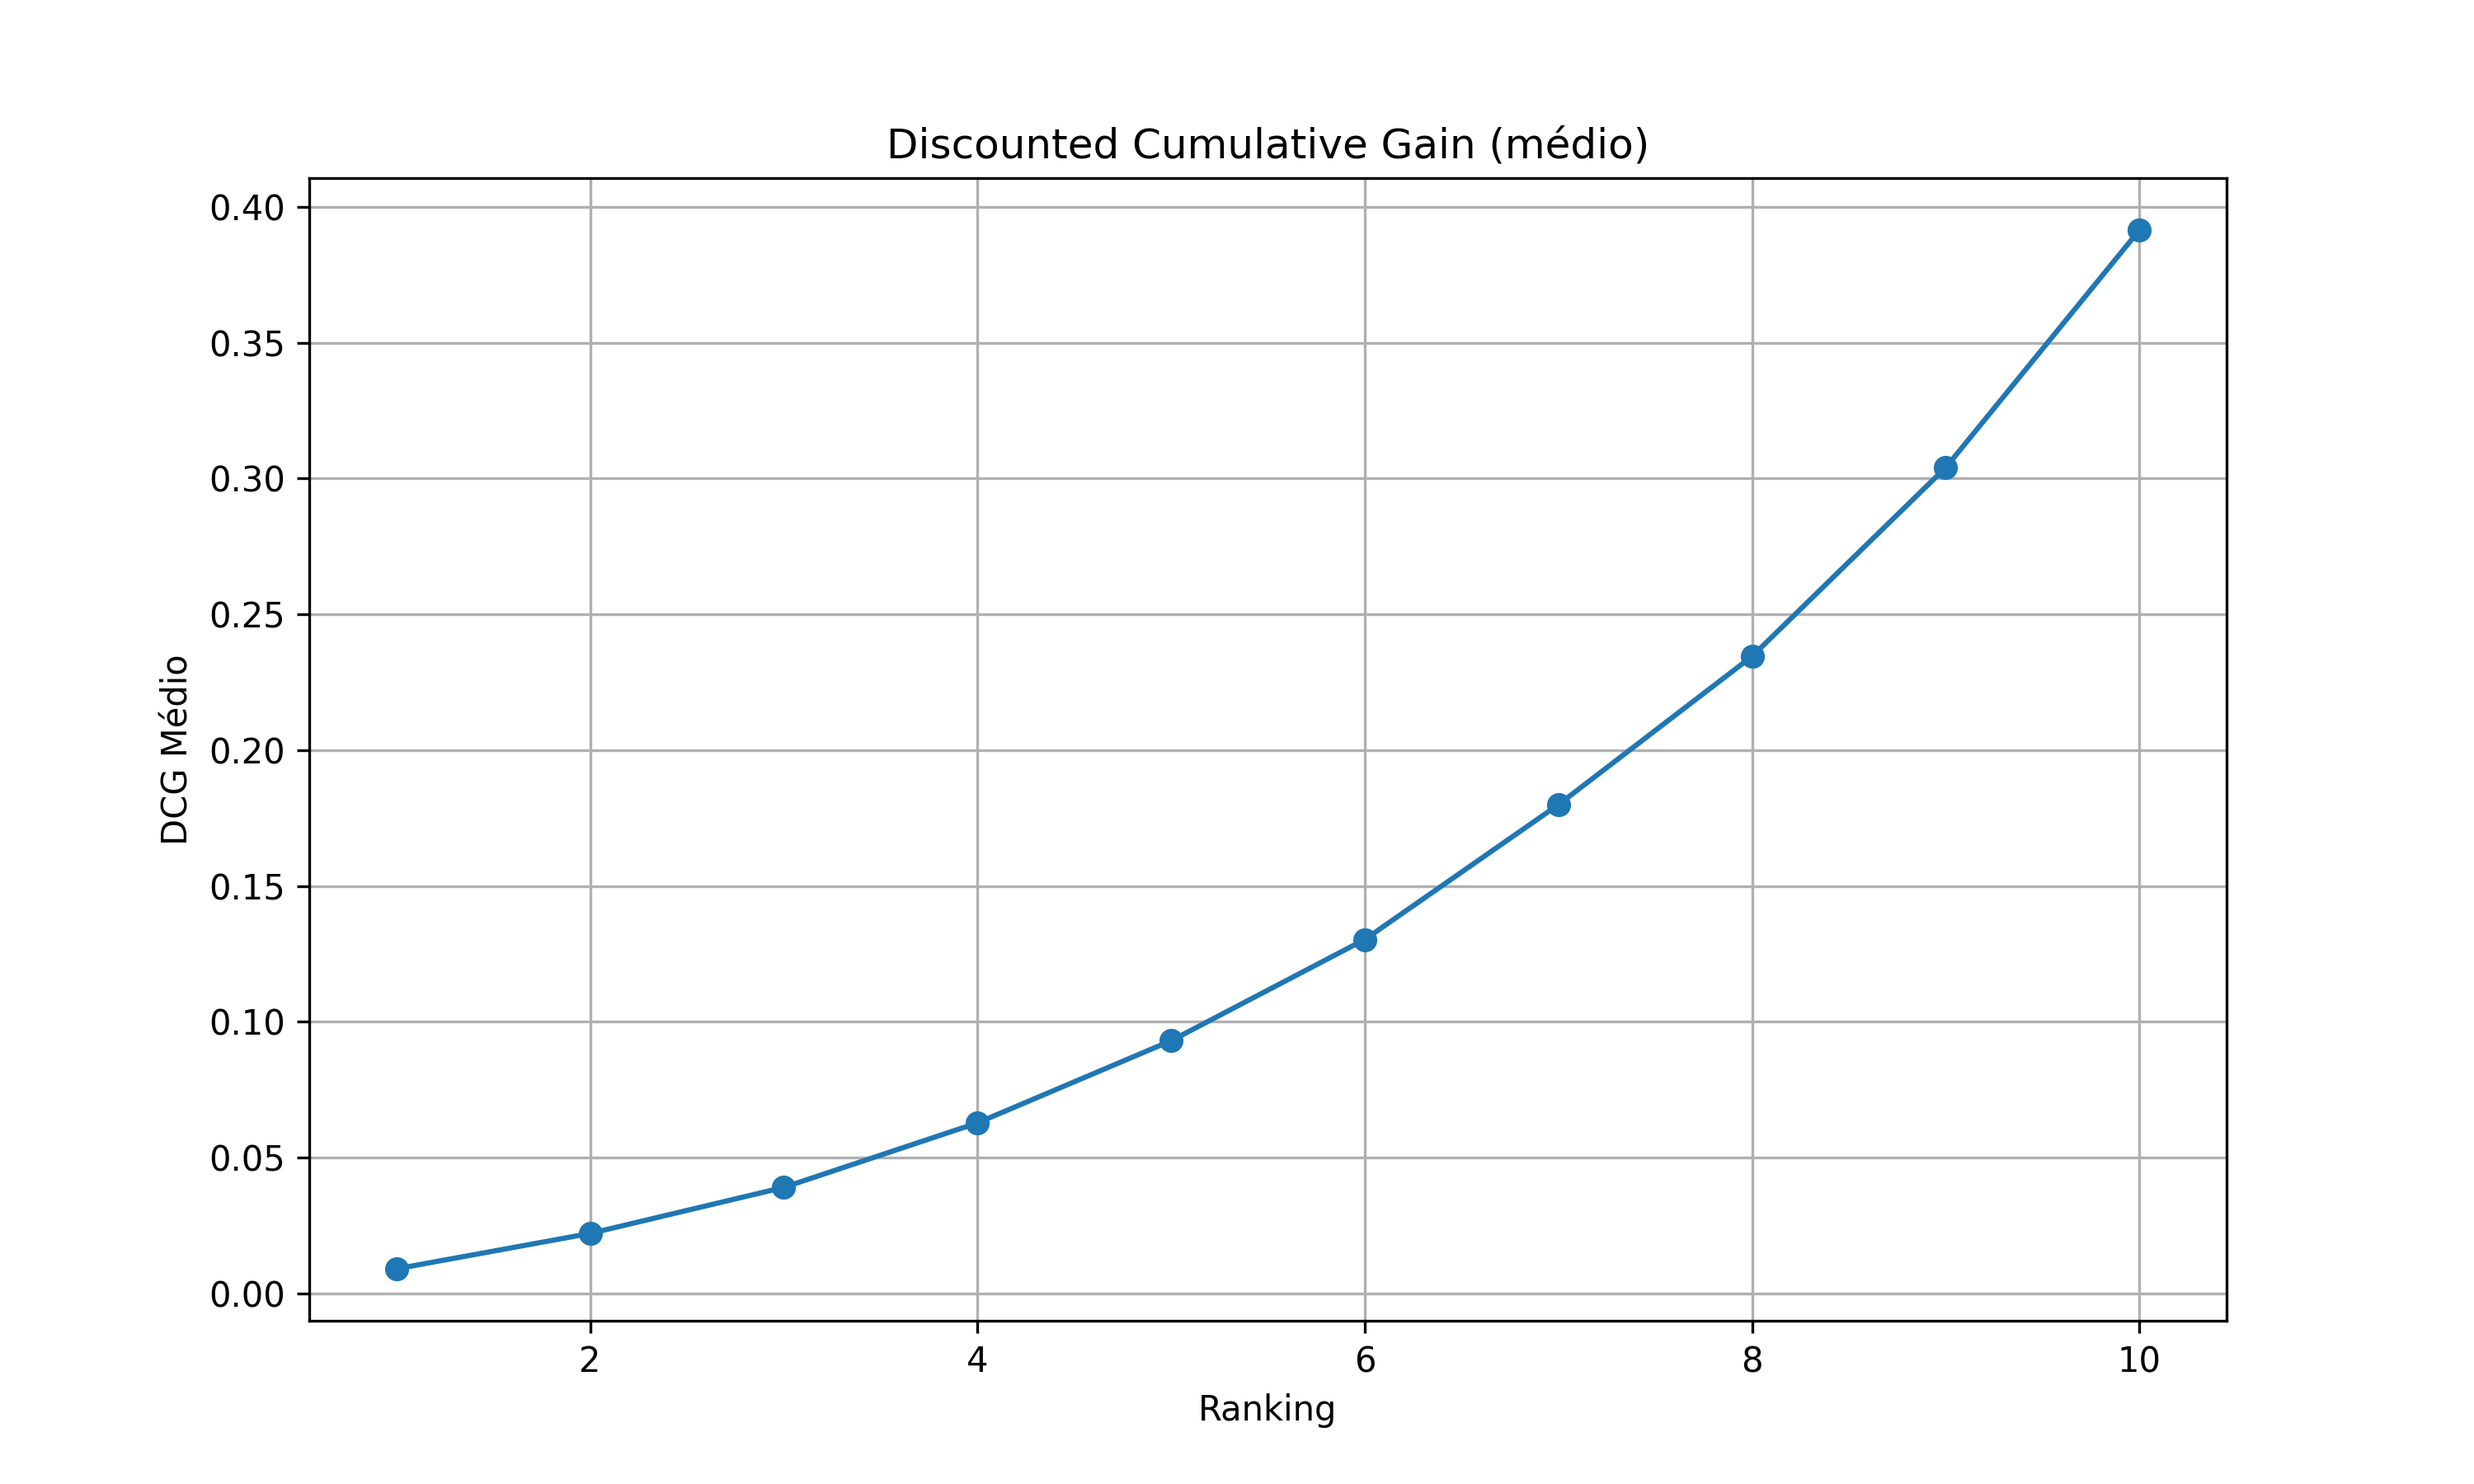
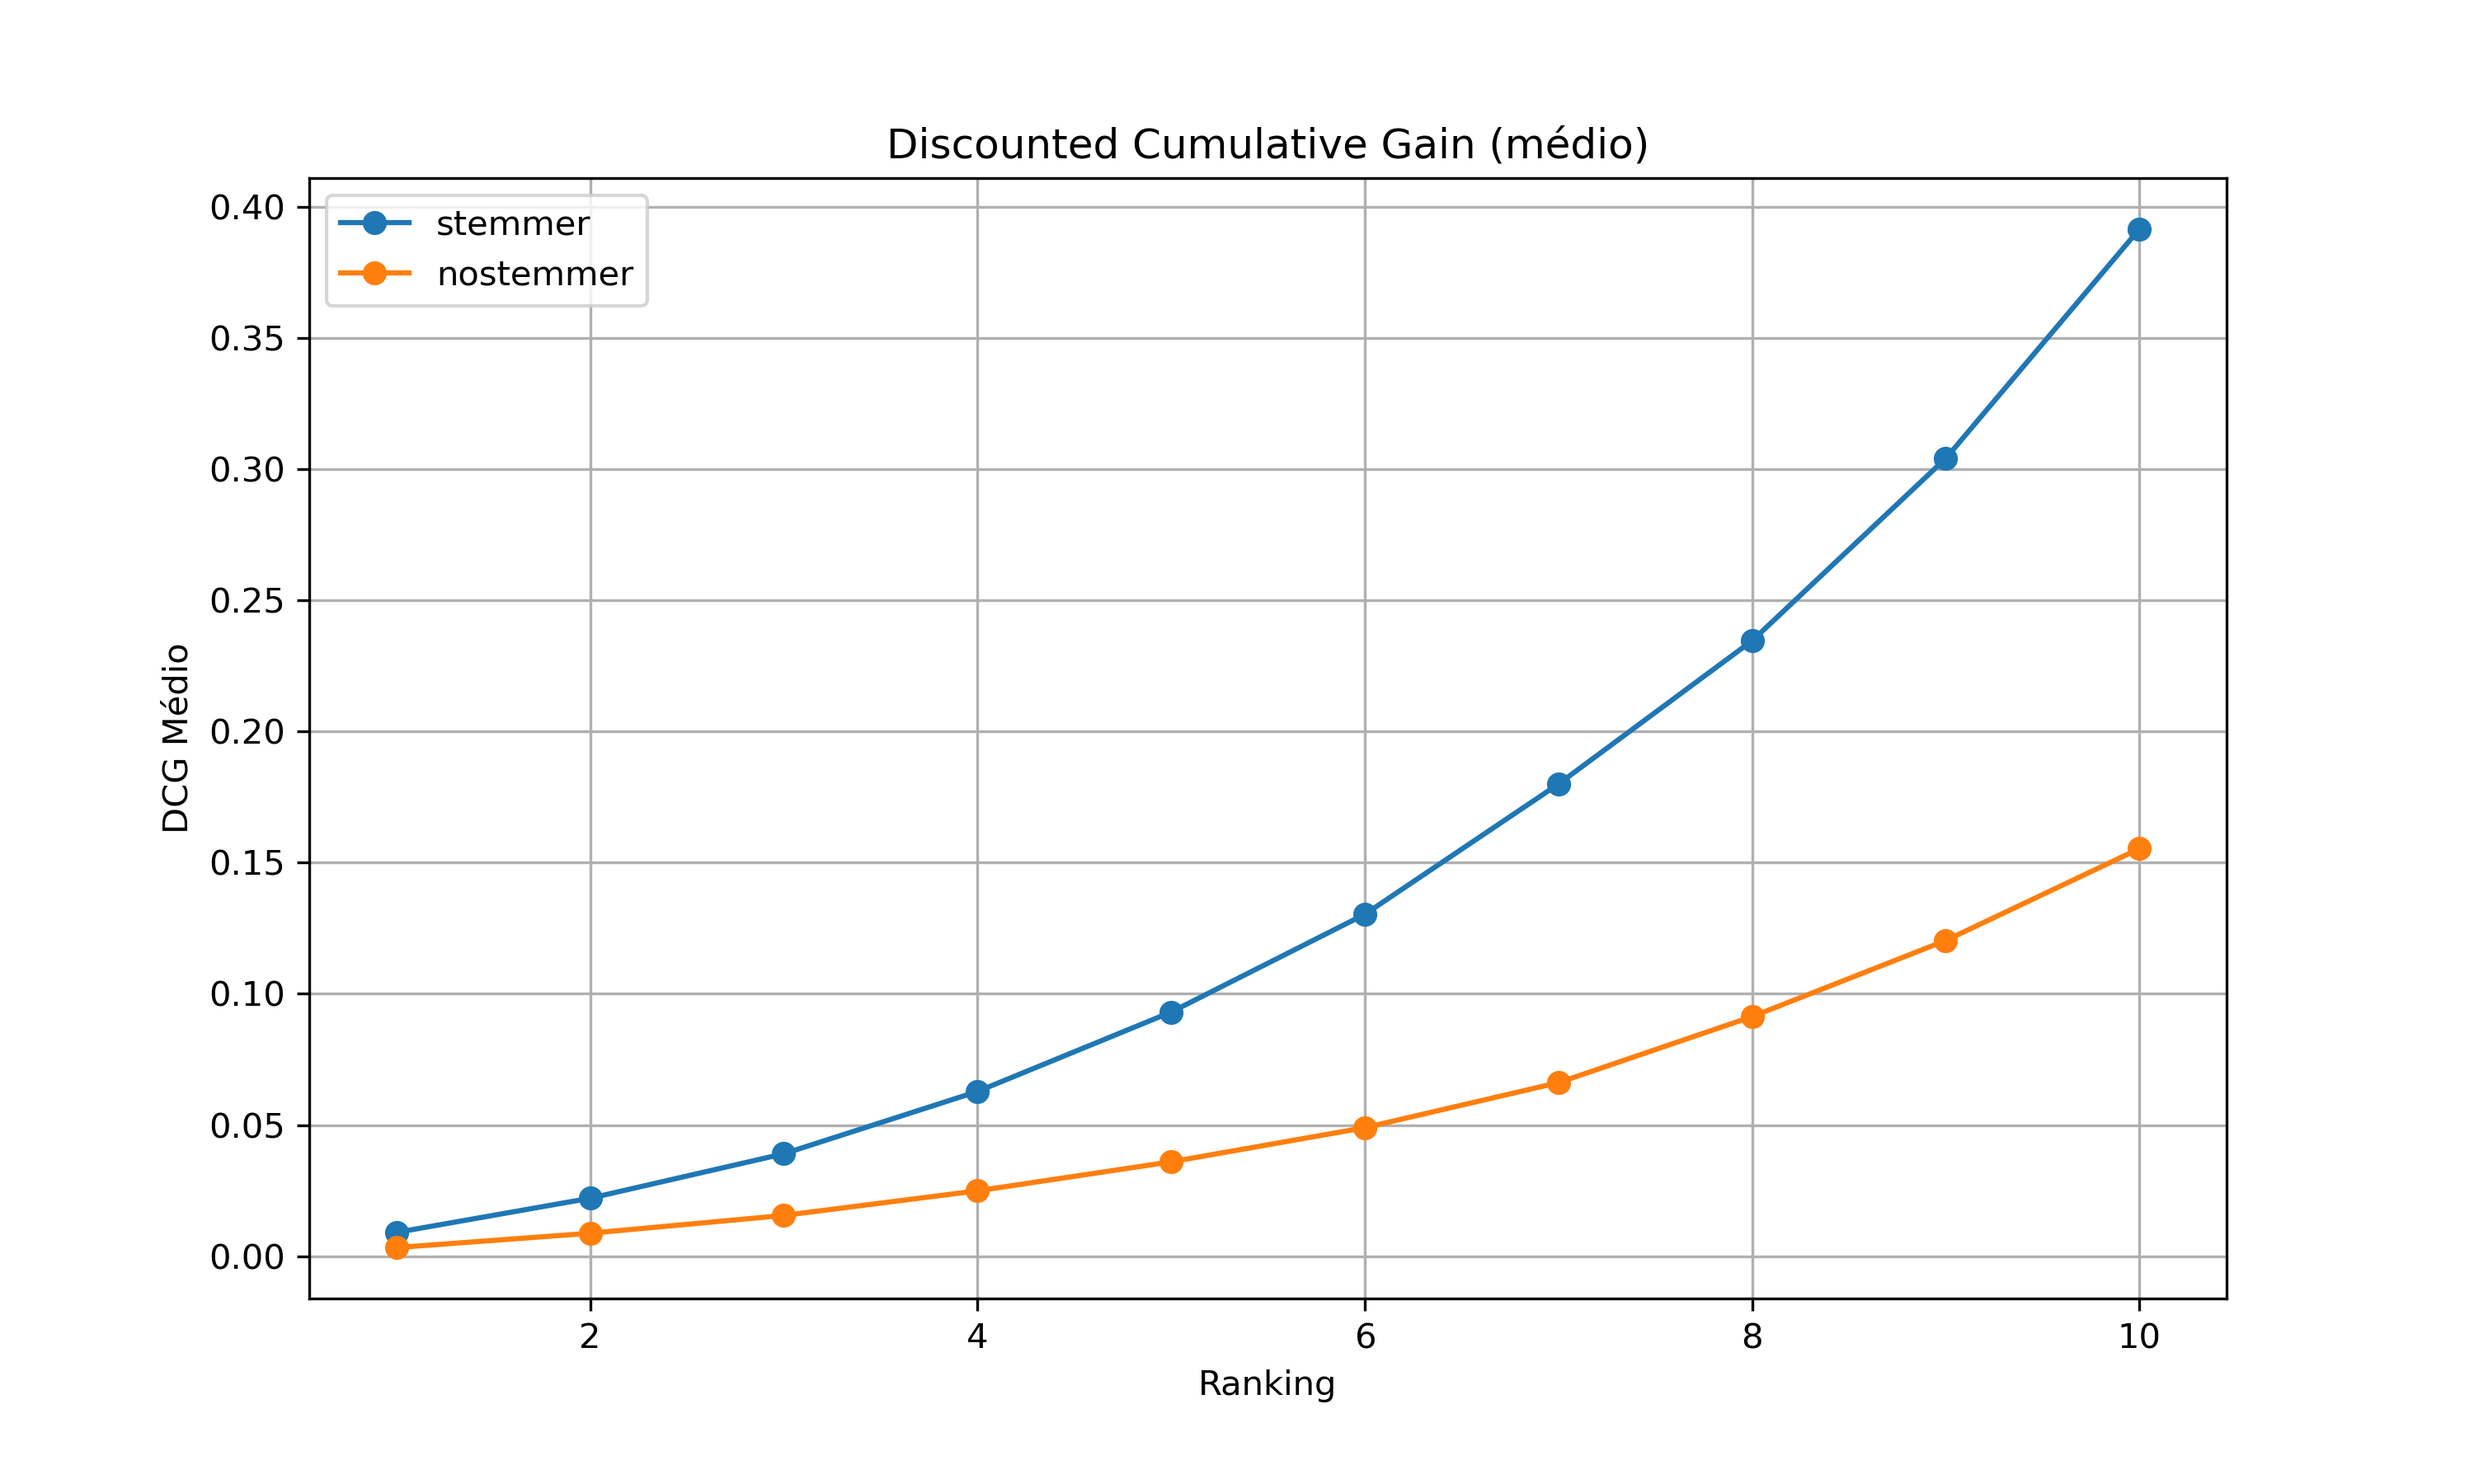
atualização dos gráficos

diff --git a/Buscador Usando Modelo Vetorial/avaliador.py b/Buscador Usando Modelo Vetorial/avaliador.py
@@ -2,21 +2,16 @@ import math
 import matplotlib.pyplot as plt
 import pandas as pd
 from sklearn.metrics import f1_score
-
 def ler_arquivo_esperado(caminho_arquivo):
     dic_esperados = {}
-
     with open(caminho_arquivo, 'r') as arquivo_esperado:
         for linha in arquivo_esperado:
             linha = linha.replace("\n", "").replace(" ", "")
             consulta, doc, votos = linha.split(";")
-
             if not consulta.isdecimal():
                 continue
-
             consulta = str(consulta)
             votos = int(votos)
-
             if consulta not in dic_esperados:
                 dic_esperados[consulta] = {doc: votos}
             else:
@@ -24,29 +19,22 @@ def ler_arquivo_esperado(caminho_arquivo):
                     dic_esperados[consulta][doc] = votos
                 else:
                     dic_esperados[consulta][doc] += votos
-
     return dic_esperados
 
 def ler_arquivo_resultados(caminho_arquivo):
     dic_resultados = {}
-
     with open(caminho_arquivo, 'r') as arquivo_resultados:
         for i, linha in enumerate(arquivo_resultados):
             if i == 0:  # Ignorar a primeira linha
                 continue
-
             linha = linha.replace("\n", "").replace(" ", "")
             consulta, lista_resultados = linha.split(";")
             lista_resultados = lista_resultados[1:-1].split('[')
-
             for lista_rank in lista_resultados:
                 doc_info = lista_rank.strip("],").split(",")
-
                 if len(doc_info) < 3:
                     continue
-
                 doc_number = str(int(doc_info[1]))
-
                 if consulta not in dic_resultados:
                     dic_resultados[consulta] = {doc_number: 1}
                 else:
@@ -54,7 +42,6 @@ def ler_arquivo_resultados(caminho_arquivo):
                         dic_resultados[consulta][doc_number] = 1
                     else:
                         dic_resultados[consulta][doc_number] += 1
-
     return dic_resultados
 
 def calcular_precisao_recall(dic_esperados, dic_resultados):
@@ -68,96 +55,72 @@ def calcular_precisao_recall(dic_esperados, dic_resultados):
     media_rr = 0
     onze_recall_total = [0] * 11
     onze_recall_consulta = [0] * 11
-
     for chave, valor in dic_resultados.items():
         media_precisao = 0
         dic_consulta = dic_esperados.get(chave)
-
         if dic_consulta is None:
             continue
-
         num_recuperados = 0.0
         num_recuperados_relevantes = 0.0
         num_relevantes = len(dic_consulta)
-
         for doc in valor:
             num_recuperados += 1
-
             if doc in dic_consulta.keys():
                 num_recuperados_relevantes += 1
-
             precisao = 100 * (num_recuperados_relevantes / num_recuperados)
             recall = math.floor(100 * (num_recuperados_relevantes / num_relevantes)) / 10
             recall = int(recall)
             onze_recall_consulta[recall] = max(onze_recall_consulta[recall], precisao)
-
             if num_recuperados == 5:
                 chave = int(chave)
                 tabela_precisoes.loc[chave]['precisao@5'] = precisao / 100
-
             if num_recuperados == 10:
                 chave = int(chave)
                 tabela_precisoes.loc[chave]['precisao@10'] = precisao / 100
-
             if num_recuperados == num_relevantes:
                 r_precisao.append(num_recuperados_relevantes / num_relevantes)
-
             if num_recuperados <= num_relevantes:
                 media_precisao += (num_recuperados_relevantes / num_recuperados) / num_relevantes
-
             if num_recuperados_relevantes == 1:
                 rr = 1 / num_recuperados
-
             if int(num_recuperados) <= 10:
                 if int(num_recuperados) == 1:
                     dcg[int(num_recuperados) - 1] = (2 ** num_recuperados_relevantes - 1) / (math.log(1 + num_recuperados))
                     continue
                 dcg[int(num_recuperados - 1)] = dcg[int(num_recuperados - 2)] + (
                             2 ** num_recuperados_relevantes - 1) / (math.log(1 + num_recuperados))
-
         media_media_precisao += media_precisao / 100
         media_rr += rr / 100
-
         for i in range(len(dcg)):
             media_dcg[i] += dcg[i] / 100
-
         for i in range(len(onze_recall_total)):
             onze_recall_total[i] = max(onze_recall_consulta[i], onze_recall_total[i])
-
     return tabela_precisoes, media_media_precisao, media_rr, media_dcg, onze_recall_total, r_precisao
 
 def calcular_f1_score(dic_esperados, dic_resultados):
     f1_scores = []
-
     for chave, valor in dic_resultados.items():
         dic_consulta = dic_esperados.get(chave)
-
         if dic_consulta is None:
             continue
-
         num_recuperados = 0.0
         num_recuperados_relevantes = 0.0
         num_relevantes = len(dic_consulta)
-
         y_true = []
         y_pred = []
-
         for doc in valor:
             num_recuperados += 1
-
             if doc in dic_consulta.keys():
                 num_recuperados_relevantes += 1
                 y_true.append(1)
             else:
                 y_true.append(0)
-
             y_pred.append(1)
-
             if num_recuperados == num_relevantes:
                 f1 = f1_score(y_true, y_pred)
                 f1_scores.append(f1)
-
     return f1_scores
+
 def gerar_graficos(tabela_precisoes1, tabela_precisoes2, media_dcg1, media_dcg2, onze_recall_total1, onze_recall_total2, r_precisao1, r_precisao2, f1_scores1, f1_scores2):
     plt.figure(figsize=(10, 6))
     plt.plot(range(1, 11), [dcg / 100 for dcg in media_dcg1], color='blue', linestyle='solid', linewidth=3, marker='o', markerfacecolor='black', markersize=6, label='stemmer')
@@ -171,8 +134,6 @@ def gerar_graficos(tabela_precisoes1, tabela_precisoes2, media_dcg1, media_dcg2,
     plt.legend()
     plt.grid(True)
     plt.savefig("./avaliacao/media_dcg.png", dpi=300)
-
-
     plt.figure(figsize=(10, 6))
     plt.plot(range(0, 101, 10), onze_recall_total1, marker='o', label='stemmer')
     plt.plot(range(0, 101, 10), onze_recall_total2, marker='o', label='nostemmer')
@@ -182,11 +143,9 @@ def gerar_graficos(tabela_precisoes1, tabela_precisoes2, media_dcg1, media_dcg2,
     plt.legend()
     plt.grid(True)
     plt.savefig("./avaliacao/11_pontos.png", dpi=300)
-
     bar_width = 0.35
     bar1 = np.arange(len(tabela_precisoes1.index))
     bar2 = [x + bar_width for x in bar1]
-
     plt.figure(figsize=(10, 6))
     plt.bar(bar1, tabela_precisoes1["precisao@5"], width=bar_width, alpha=0.7, label='Precision@5 stemmer')
     plt.bar(bar2, tabela_precisoes2["precisao@5"], width=bar_width, alpha=0.7, label='Precision@5 nostemmer')
@@ -198,7 +157,6 @@ def gerar_graficos(tabela_precisoes1, tabela_precisoes2, media_dcg1, media_dcg2,
     plt.legend()
     plt.grid(True)
     plt.savefig("./avaliacao/precision5_precision10.png", dpi=300)
-
     plt.figure(figsize=(10, 6))
     plt.hist(r_precisao1, bins=10, alpha=0.7, label='R-Precision stemmer')
     plt.hist(r_precisao2, bins=10, alpha=0.7, label='R-Precision nostemmer')
@@ -207,7 +165,6 @@ def gerar_graficos(tabela_precisoes1, tabela_precisoes2, media_dcg1, media_dcg2,
     plt.title('Histograma de R-Precision')
     plt.legend()
     plt.savefig("./avaliacao/r_precision.png", dpi=300)
-
     plt.figure(figsize=(10, 6))
     plt.plot(range(1, 11), [dcg / 100 for dcg in media_dcg1], marker='o', label='stemmer')
     plt.plot(range(1, 11), [dcg / 100 for dcg in media_dcg2], marker='o', label='nostemmer')
@@ -217,12 +174,10 @@ def gerar_graficos(tabela_precisoes1, tabela_precisoes2, media_dcg1, media_dcg2,
     plt.legend()
     plt.grid(True)
     plt.savefig("./avaliacao/discounted_cumulative.png", dpi=300)
-
     idcg = [1.0 / math.log(i + 2, 2) for i in range(10)]
     idcg = sum(idcg)
     ndcg1 = [dcg / idcg for dcg in media_dcg1]
     ndcg2 = [dcg / idcg for dcg in media_dcg2]
-
     plt.figure(figsize=(10, 6))
     plt.plot(range(1, 11), ndcg1, marker='o', label='stemmer')
     plt.plot(range(1, 11), ndcg2, marker='o', label='nostemmer')
@@ -232,7 +187,6 @@ def gerar_graficos(tabela_precisoes1, tabela_precisoes2, media_dcg1, media_dcg2,
     plt.legend()
     plt.grid(True)
     plt.savefig("./avaliacao/normalized_discounted_cumulative_gain.png", dpi=300)
-
     plt.figure(figsize=(10, 5))
     plt.plot(range(1, len(f1_scores1) + 1), f1_scores1, marker='o', linestyle='-', label='stemmer')
     plt.plot(range(1, len(f1_scores2) + 1), f1_scores2, marker='o', linestyle='-', label='nostemmer')
@@ -243,21 +197,16 @@ def gerar_graficos(tabela_precisoes1, tabela_precisoes2, media_dcg1, media_dcg2,
     plt.savefig("./avaliacao/f_1_score.png", dpi=300)
 
 def main():
-    dic_esperados1 = ler_arquivo_esperado('./results/esperados.csv')
-    dic_resultados1 = ler_arquivo_resultados('./results/resultados-stemmer.csv')
-    dic_resultados2 = ler_arquivo_resultados('./results/resultados-nostemmer.csv')
-
+    dic_esperados1 = ler_arquivo_esperado(r'./results/esperados.csv')
+    dic_resultados1 = ler_arquivo_resultados(r'./results/resultados-stemmer.csv')
+    dic_resultados2 = ler_arquivo_resultados(r'./results/resultados-nostemmer.csv')
     tabela_precisoes1, media_media_precisao1, media_rr1, media_dcg1, onze_recall_total1, r_precisao1 = calcular_precisao_recall(dic_esperados1, dic_resultados1)
     tabela_precisoes2, media_media_precisao2, media_rr2, media_dcg2, onze_recall_total2, r_precisao2 = calcular_precisao_recall(dic_esperados1, dic_resultados2)
-
     f1_scores1 = calcular_f1_score(dic_esperados1, dic_resultados1)
     f1_scores2 = calcular_f1_score(dic_esperados1, dic_resultados2)
-
     gerar_graficos(tabela_precisoes1, tabela_precisoes2, media_dcg1, media_dcg2, onze_recall_total1, onze_recall_total2, r_precisao1, r_precisao2, f1_scores1, f1_scores2)
-
     tabela_map_mrr1 = pd.DataFrame(data=[[media_media_precisao1, media_rr1]], index=["valores"], columns=["map", "mrr"])
     tabela_map_mrr2 = pd.DataFrame(data=[[media_media_precisao2, media_rr2]], index=["valores"], columns=["map", "mrr"])
-
     tabela_precisoes1.to_csv("./avaliacao/precisoes-stemmer.csv", sep=';', encoding='utf-8')
     tabela_precisoes2.to_csv("./avaliacao/precisoes-nostemmer.csv", sep=';', encoding='utf-8')
     tabela_map_mrr1.to_csv("./avaliacao/map_mrr-stemmer.csv", sep=';', encoding='utf-8')
